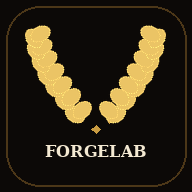
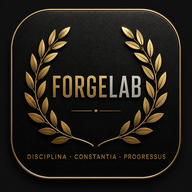
Add files via upload

diff --git a/index.html b/index.html
@@ -1,4 +1,7 @@
-<!doctype html><html lang="fr"><head><meta charset="utf-8"><meta name="viewport" content="width=device-width,initial-scale=1,viewport-fit=cover"><meta name="theme-color" content="#100d09"><meta name="apple-mobile-web-app-capable" content="yes"><meta name="apple-mobile-web-app-status-bar-style" content="black-translucent"><meta name="apple-mobile-web-app-title" content="ForgeLab"><link rel="manifest" href="manifest.webmanifest?v=140"><link rel="icon" href="icon.svg?v=140"><link rel="apple-touch-icon" sizes="180x180" href="apple-touch-icon.png?v=140"><link rel="stylesheet" href="mobile.css?v=140"><title>ForgeLab Mobile v1.4.0</title></head><body>
+<!doctype html><html lang="fr"><head><meta charset="utf-8"><meta name="viewport" content="width=device-width,initial-scale=1,viewport-fit=cover"><meta name="theme-color" content="#100d09"><meta name="apple-mobile-web-app-capable" content="yes"><meta name="apple-mobile-web-app-status-bar-style" content="black-translucent"><meta name="apple-mobile-web-app-title" content="ForgeLab"><link rel="manifest" href="manifest.webmanifest?v=141"><link rel="stylesheet" href="mobile.css?v=140"><title>ForgeLab Mobile v1.4.0</title><link rel="apple-touch-icon" sizes="180x180" href="apple-touch-icon.png?v=141">
+<link rel="icon" type="image/png" sizes="192x192" href="icon-192.png?v=141">
+<link rel="icon" type="image/png" sizes="512x512" href="icon-512.png?v=141">
+</head><body>
 <header class="hero"><div class="laurel">❧</div><h1>FORGELAB</h1><div class="core">MOBILE · ATLAS ENGINE</div><div id="cloud" class="cloud">● CLOUD · CONNEXION…</div><div class="motto">DISCIPLINA · CONSTANTIA · PROGRESSUS</div></header>
 <main><section class="weekbar"><button id="prevWeek">‹</button><div><small>SEMAINE ACTIVE</small><strong id="weekTitle">S1</strong><span id="blockTitle">Bloc</span></div><button id="nextWeek">›</button></section><div id="weekDots" class="weekdots"></div><section id="view"></section></main>
 <nav><button data-tab="priorities"><span>◆</span>Priorités</button><button class="active" data-tab="series"><span>Ⅲ</span>Séries</button><button data-tab="tracking"><span>◉</span>Suivi</button></nav>
